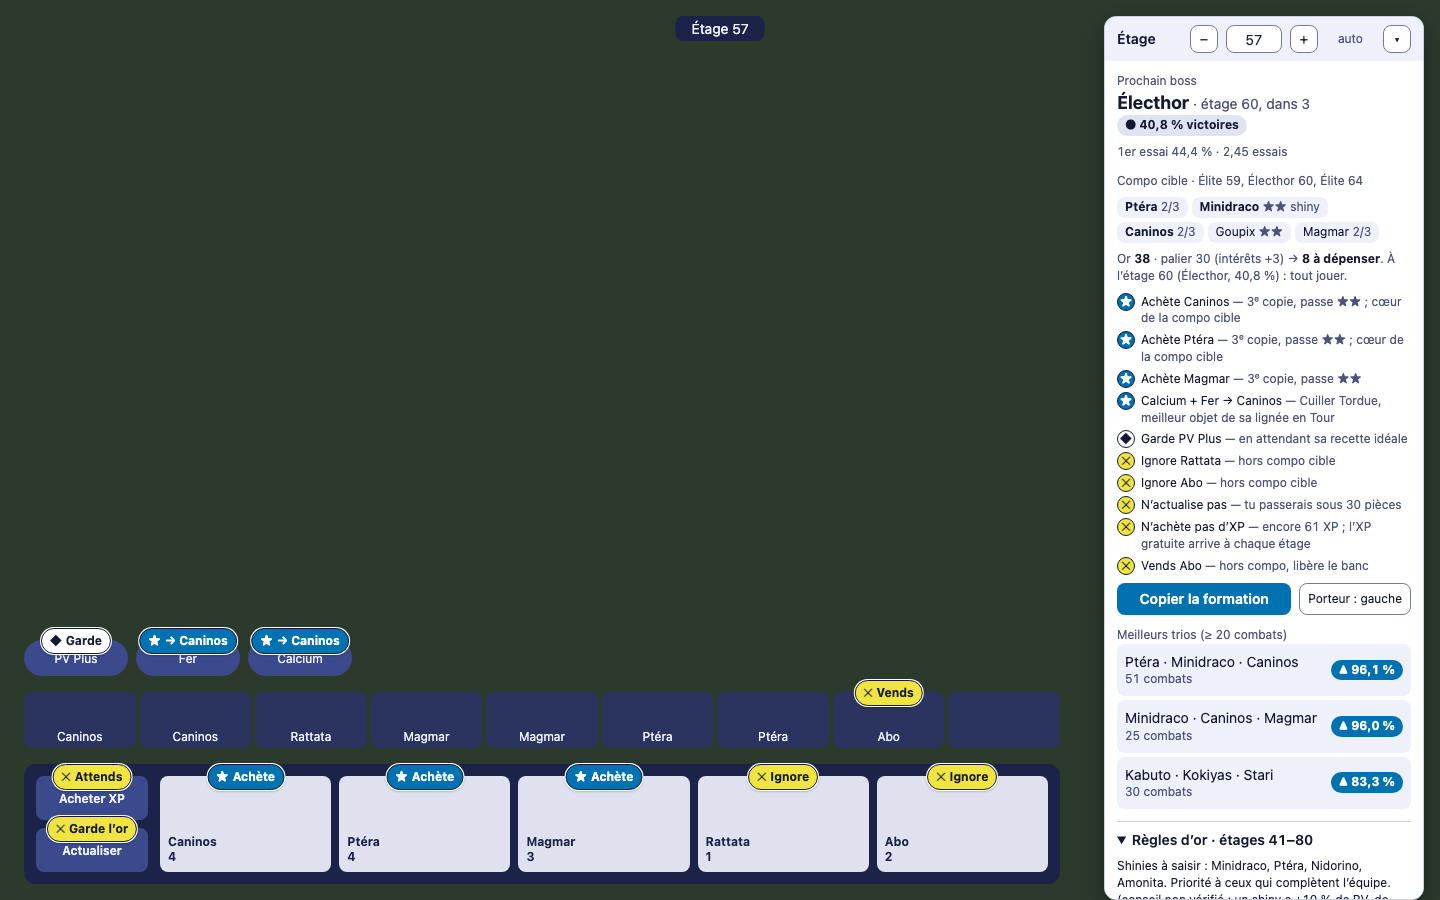
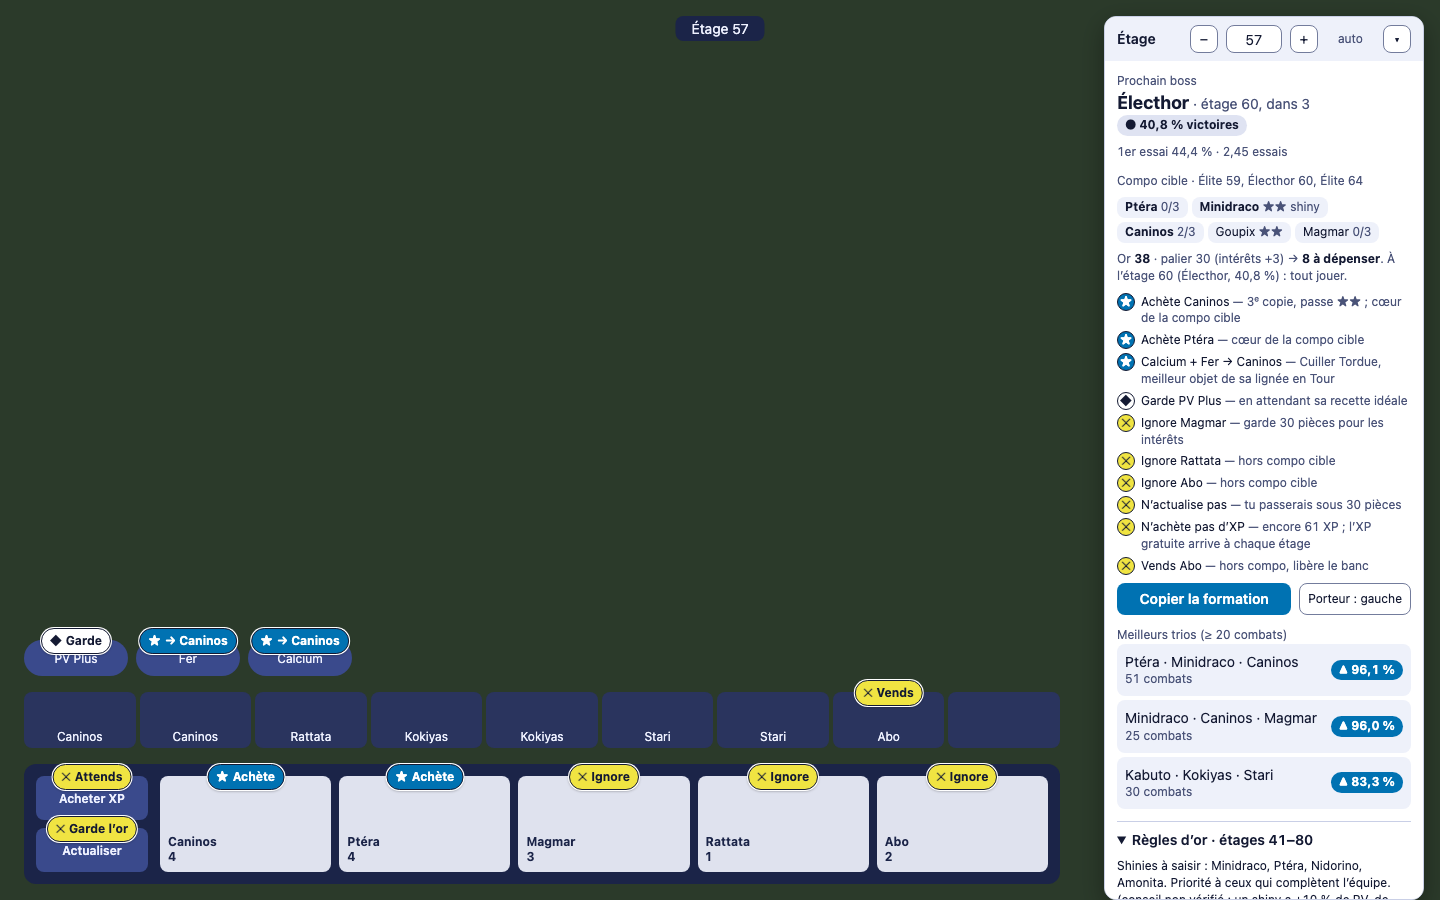
Revue 3 : raison shiny en boutique si la carte devient la meilleure copie

diff --git a/test/logic.test.js b/test/logic.test.js
@@ -290,7 +290,8 @@ test('shiny : lignée shiny si sa copie de meilleure étoile l’est, +2 points 
   const shiny = withUnits({ b: { ...S57.units.b, shiny: true } });
   assert.equal(KT.shinyLine(KT.readGame(shiny), 'growlithe'), true);
   assert.equal(KT.shinyLine(KT.readGame(S57), 'growlithe'), false);
-  // Minidraco 2★ normal et 1★ shiny : pas de 2★ shiny annoncé (ni « s » dans le code KT1).
+  // Minidraco 2★ normal et 1★ shiny : pas de 2★ shiny annoncé (ni « s » dans le code KT1), et le 1★ shiny, de la lignée du
+  // porteur, n'est pas pris pour tank (Minidraco reste en case 4, pas au centre).
   const lower = withUnits({ x: { id: 'x', line: 'dratini', star: 1, shiny: true } }, { bench: ['b', 'c', 'e', 'x', null, null, null, null, null] });
   assert.equal(KT.shinyLine(KT.readGame(lower), 'dratini'), false);
   assert.match(advise(lower).code, /;dratini:2:4:/);
@@ -327,6 +328,9 @@ test('shiny : pas de « Vends » jusqu’à l’étage 120, boutique sans raison
   }, { level: 4, bench: ['b', 'c', 'e', 'f', 'g', 'h', 'i', 'j', null] });
   assert.equal(advise(full).bench[3], null);
   assert.equal(advise({ ...full, round: 1199 }).bench[3].title, 'Vends Abo');
+  // Goupix 2★ normal (remplissage) : une carte 1★ shiny ne change pas la copie jouée.
+  const above = withUnits({}, { shop: ['vulpix', 'aerodactyl', 'magmar', 'rattata', 'ekans'], shopShiny: [true, false, false, false, false] });
+  assert.deepEqual([brief(advise(above).shop[0]), advise(above).shop[0].why], ['opt Si l’or', 'renforce le plateau de la compo']);
   const owned = withUnits({ m: { id: 'm', line: 'magmar', star: 1, shiny: true } },
     { shopShiny: [false, false, true, false, false], bench: ['b', 'c', 'e', 'm', null, null, null, null, null] });
   // Magmar reste dans la compo : seule la raison shiny disparaît.

diff --git a/kanto-overlay.user.js b/kanto-overlay.user.js
@@ -425,7 +425,8 @@ const KT = (() => {
         return buy(c.cost, c.name, c.inCore ? '3ᵉ copie, passe ★★ ; cœur de la compo cible' : '3ᵉ copie, passe ★★', c.inCore ? proof : '');
       }
       if (c.inCore) return buy(c.cost, c.name, 'cœur de la compo cible', proof);
-      if (c.shiny && c.inTarget && !shinyLine(game, c.base)) return buy(c.cost, `${c.name} shiny`, '+10 % PV, défenses et dégâts');
+      // +10 % tout de suite seulement si la carte devient la meilleure copie de sa lignée.
+      if (c.shiny && c.inTarget && bestStar(game, c.base) <= 1 && !shinyLine(game, c.base)) return buy(c.cost, `${c.name} shiny`, '+10 % PV, défenses et dégâts');
       return undefined;
     });
     left -= reserve(left);
